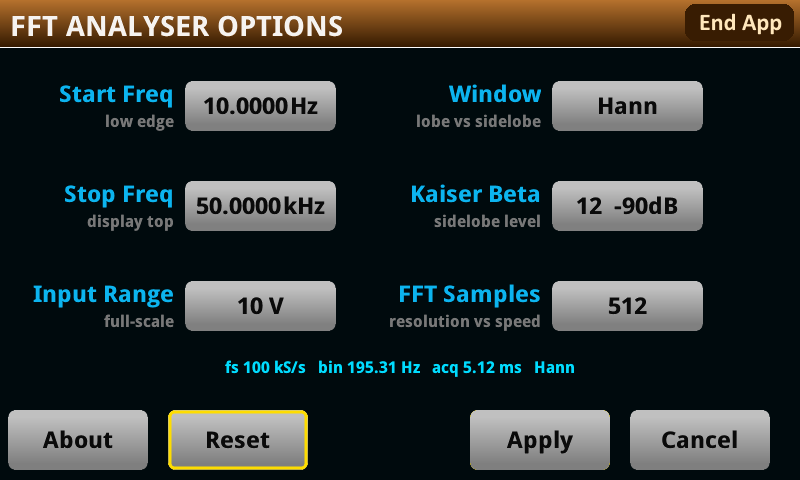
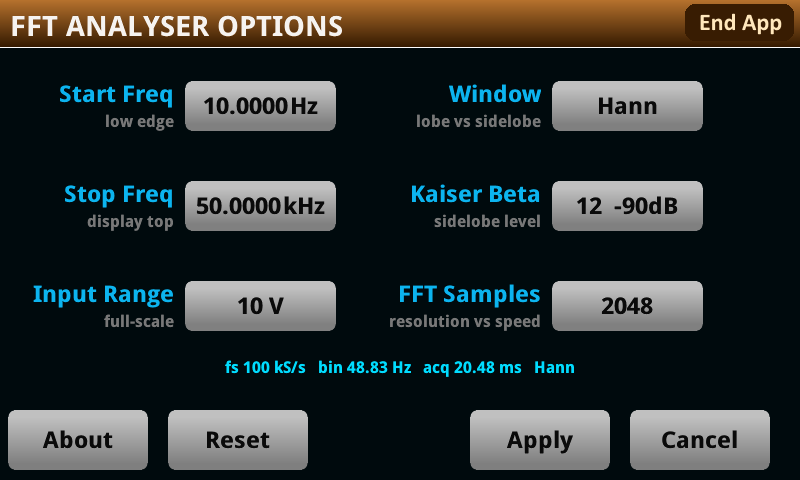
Refresh README and manual screenshots
Show the current spectrum and Options screens from the DMM6500.
Keep the earlier harmonic and resolution captures as benchmark examples.

diff --git a/docs/MANUAL.md b/docs/MANUAL.md
@@ -10,18 +10,19 @@ live spectrum, the physical **EXIT** key exits the analyser too.
 
 ## The spectrum screen
 
-![The spectrum screen: a 12.5 kHz 4.0020 V tone reading 12.0 dBV as a single 195 Hz-wide lump, over a 10 Hz to 50 kHz span at 512 samples with the Hann window. The vertical axis is labelled +020.0dB down to -120.0dB and the horizontal axis +00.00kHz to +40.00kHz, both by the firmware. The noise floor sits near -95 dB. Between the graph and the peak table a line reads THD 0.01%, S/N 78.4 dB and a noise floor of -89.7 dBV. A padlock button, closed, and a cog button sit to the right of the peak table](manual-spectrum.png)
+![DMM6500 spectrum screen showing a 6.000 kHz tone at 708.06 mVrms and 0.0 dBV. THD is 0.01%, S/N is 70.8 dB, and the noise floor is -100.4 dBV. The fast-path F indicator is on, and padlock and Options buttons sit to the right of the peak table.](manual-spectrum-current.png)
 
-+20 to −120 dBV against frequency, or to −140 on a DMM7510's 1 V and 0.1 V ranges. By default, 2048
-samples a frame, 256 bins, 10 frames a second. Options offers larger records for finer bin spacing,
-at a slower update rate.
++20 to −120 dBV against frequency, or to −140 on a DMM7510's 1 V and 0.1 V ranges. At the default
+2,048 samples and 100 kS/s, bins are 48.83 Hz wide. The screenshot shows the fast path at 20 fps.
+Options offers larger records for finer bin spacing at a slower update rate.
 
 ### The `F` at the start of the bottom line
 
 The bottom line reads `F  2048 pts  …` once the app is drawing by its **fast path**. Instead of
 appending 510 readings one at a time for the firmware's display task to copy, it writes the
 pixel records straight into the task's own ring in a single operation, and asks for one repaint.
-That is about twice the frame rate, and it is what the rate figures in *Limits* assume.
+That is about twice the frame rate of appending. The *Limits* section keeps an older frame-rate
+benchmark for comparison.
 
 It should appear **within about three seconds of launch**, and then stay. A number after it --
 `F2`, `F3` -- counts how many times the path has had to re-acquire since the line last changed.
@@ -63,13 +64,12 @@ Six peaks, strongest first, in two columns. The voltage is the RMS amplitude of 
 on the graph. Older screenshots show the previous peak-voltage readout.
 
 ```
-1  21.100 kHz   3.1906 Vrms   13.1 dBV
+1  6.000 kHz   708.06mVrms   0.0 dBV
 ```
 
-In the capture, peaks 2 and 3 are the tone's second and third harmonics, 81 and 82 dB down; peaks 4
-to 6 are noise, 84 dB down. At 195 Hz bins the harmonics sit close enough to the floor that their
-frequencies read tens of hertz out — 24.927 kHz for one that is really 25.000. The 16,384-sample
-capture further down resolves them exactly.
+The other rows show the next strongest peaks in the span. They can be harmonics or noise; rank
+does not identify them. The 16,384-sample comparison further down shows how finer bins can
+separate low-level harmonics from the noise floor.
 
 Two buttons sit to the right of the peak table: a **padlock**, which decides what a sideways drag
 means, and a **cog**, which opens Options.
@@ -124,7 +124,7 @@ beta 18. Kaiser beta 4 and 6 are the exceptions at 37 and 48 dB — their sidelo
 down and integrate across the whole band, which no skirt can exclude. A reading near the ceiling is
 telling you about the window rather than the instrument.
 
-![The same capture with Kaiser beta 18: the 12.5 kHz tone at 12.0 dBV with visibly narrower skirts than
+![An earlier 12.5 kHz capture with Kaiser beta 18: the tone is at 12.0 dBV with visibly narrower skirts than
 Hann, and a distortion line reading THD 0.01%, S/N 77.0 dB and a noise floor of -103.9 dBV -- within
 two decibels of what Hann reports, where before the leakage outliers were clipped the two windows
 disagreed by 23](manual-spectrum-kaiser18.png)
@@ -272,7 +272,7 @@ works either way.
 
 ## Options
 
-![The options form: Start Freq, Stop Freq and Input Range in the left column, Window, Kaiser Beta and FFT Samples in the right, with the preview line beneath and About, Reset, Apply and Cancel along the bottom. Start Freq reads 10.0000 Hz, Stop Freq 50.0000 kHz, Input Range 10 V, Window Hann, Kaiser Beta 12 -90dB and FFT Samples 512](manual-options.png)
+![The Options form shows a 10 Hz to 50 kHz span, 10 V input range, Hann window and 2,048 FFT samples. The preview shows 100 kS/s and 48.83 Hz bins. About, Reset, Apply and Cancel sit along the bottom.](manual-options.png)
 
 **If the Options key is slow to respond, something is talking to the instrument.** Front-panel
 keys are dispatched by the firmware's display task, and that dispatch stops while a LAN or USB
@@ -287,7 +287,7 @@ again. On its own the app stays responsive at every sample count.
 | Input Range | 0.1, 1 or 10 V full scale. |
 | Window | Hann, Blackman, Blk-Harris or Kaiser. |
 | Kaiser Beta | Sidelobe level, −30 to −139 dB. Inert for the other three windows. |
-| FFT Samples | 1024, 2048 (default), 4096, 8192, 16384 or 32768. More samples give finer bins. At the small counts the frame rate is set by per-frame overhead rather than by the count, so a step up costs less than doubling suggests; 1024 and 2048 are both measured at 10 frames a second. |
+| FFT Samples | 1024, 2048 (default), 4096, 8192, 16384 or 32768. More samples give finer bins. At small counts, per-frame overhead means doubling the sample count does not necessarily halve the frame rate. |
 
 Start Freq and Stop Freq are also written by a drag or a pinch on the trace while the padlock is
 open, so the form opens on whatever the last gesture asked for — see *Dragging and zooming the
@@ -549,7 +549,7 @@ distortion line reads THD 0.02%, S/N 78.9 dB and a noise floor of -105.8 dBV -- 
 512-sample figure, which is the 3 dB a doubling a per-bin level gives. The axes are the firmware's own, +020.0dB to -120.0dB and +00.00kHz to
 +40.00kHz](manual-spectrum-16384.png)
 
-Compare the 512-sample shot at the top of this manual, where the same tone is a single 195 Hz-wide
+Compare the [earlier 512-sample shot](manual-spectrum.png), where the same tone is a single 195 Hz-wide
 lump and the harmonics are down in the noise of the trace — the table still finds them, a few tens
 of hertz out.
 
@@ -645,7 +645,8 @@ reported a 100 Hz tone at 390.6 Hz and 16 dB low.
   frequency down with it; read *Aliasing* before trusting a peak at one of the slow rates.
 - **A span wider than 50 kHz raises the rate** and coarsens the bins with it. 500 kHz is the highest
   tone the instrument can show.
-- **10 frames a second at 1024 and 2048 samples, falling as the count rises.** The firmware's
+- **Earlier frame-rate benchmark.** The table below records a build that appended every point;
+  it does not show the current fast-path rates. In that benchmark the firmware's
   shortest timer period is 0.05 s and a tick arriving mid-frame is dropped. The period itself is
   **not restricted to multiples of 0.05**: asking for one off that grid posts event 1727 in the log
   and the period is honoured anyway. So the rate is `1 / period` on a 10 ms grid, with 0.05 s a hard
@@ -657,13 +658,12 @@ reported a 100 Hz tone at 390.6 Hz and 16 dB low.
   | displayed | **10 fps** | **10** | **8.2** | **6.0** | **3.6** | **1.9** |
   | period, derived | 0.10 s | 0.10 | 0.12 | 0.17 | 0.28 | 0.53 |
 
-  **The displayed row is measured, every count, on a DMM6500 1.7.17a.** The period row is `1 / rate`
+  The displayed row was measured at every count on a DMM6500 1.7.17a. The period row is `1 / rate`
   rounded to the 10 ms grid, which is derived and not read back -- the app chooses the period and
   the displayed rate is what comes of it.
 
-  An earlier build read 13 to 15 fps at 1024 and that figure is gone rather than kept: the trace is
-  now written as a folded pass, up the band and back down, which is twice the appends and is what
-  removes the dropout the earlier build had. Over 500 appends at about 76 us each is roughly 39 ms
+  The benchmark used a folded pass, up the band and back down, to remove the dropout of an earlier
+  build that read 13 to 15 fps at 1024. Over 500 appends at about 76 us each is roughly 39 ms
   of every frame. A single ascending lap costs half that and runs 17 fps at 1024, and it cannot be
   used -- it draws the spectrum twice on alternate frames.
 

diff --git a/README.md b/README.md
@@ -1,20 +1,15 @@
 # A spectrum analyser that runs on the Keithley DMM6500, DMM7510, and DAQ6510
 
 A real-time FFT spectrum analyser for the Keithley DMM6500, DAQ6510 and DMM7510, running **entirely
-on the instrument** as a TSP app. The digitizer captures, the instrument computes the transform in
-Lua, and the firmware's own graph object draws the trace. No host, no PC software.
+on the instrument** as a TSP app. The digitizer captures, the native FFT computes the transform,
+and the firmware's own graph object draws the trace. No host, no PC software.
 
-![The spectrum screen at 16,384 samples: a 10 kHz 5.0061 V tone reading 14.0 dBV as a narrow spike, with its 
-harmonics resolved as separate lines every 10 kHz out to 70 kHz -- the second at 20.000 kHz and 63.9 dB down, the 
-third at 30.000 kHz and 71.6 dB down -- all of them well clear of a -100 dB floor, at 200 kS/s with 12.21 Hz 
-bins. Between the graph and the peak table, THD 0.015%, S/N 81.8 dB and a noise floor of -105.4 dBV. The 
-firmware labels the axes itself, +020.0dB down to -120.0dB and +00.00kHz across to 
-+64.00kHz](docs/manual-spectrum-harmonics.png)
+![DMM6500 spectrum screen showing a 6.000 kHz tone at 708.06 mVrms and 0.0 dBV. The fast-path F indicator is on at 2,048 samples, 100 kS/s and 20 fps.](docs/manual-spectrum-current.png)
 
 A bench multimeter is not a spectrum analyser. This one has a 1 MS/s digitizer, a 400 MHz processor
-and a touchscreen, which is enough to resolve six harmonics of a 10 kHz tone as separate lines — the
-second and third at −63.9 and −71.6 dBV — in 12.2 Hz bins at 16,384 samples, or 195 Hz bins at 10
-frames a second.
+and a touchscreen. At 2,048 samples and 100 kS/s, the capture above shows 48.83 Hz bins and 20
+frames per second. An [earlier 10 kHz harmonic benchmark](docs/manual-spectrum-harmonics.png) shows
+six harmonics resolved at 16,384 samples, with 12.2 Hz bins.
 
 `docs/MANUAL.md` is the user manual. Start there to operate it; read on for how it works.
 
@@ -43,9 +38,9 @@ responsive at every sample count.
 
 ## What it does
 
-- **Digitizes** up to 1 MS/s, with selectable 512 to 16,384 samples per frame (default 512).
-- **Transforms** with a real-input radix-2 FFT in Lua 5.0.2. The window, the bit-reversal permutation
-  and every twiddle factor are precomputed when settings are applied. 256 to 8,192 bins.
+- **Digitizes** up to 1 MS/s, with selectable 1,024 to 32,768 samples per frame (default 2,048).
+- **Transforms** with a real-input radix-2 FFT. The window, the bit-reversal permutation and every
+  twiddle factor are precomputed when settings are applied.
 - **Plots** through `display.OBJ_GRAPH`, one buffer refill a frame and no graph call in a frame
   nobody has touched, which brings axes, grid, labels and auto-scaling with it. The firmware labels both axes in real units --
   kHz across, from binding X to the reading's extra field rather than its timestamp, and dB down,
@@ -65,7 +60,7 @@ responsive at every sample count.
 More samples give finer bins without reducing bandwidth: 16,384 samples at 100 kS/s give
 6.10 Hz spacing. Larger sizes cost update rate. `docs/PERFORMANCE.md` has every size measured.
 
-One signal at both ends of that trade, a 12.5 kHz 4.0 V tone over the same 10 Hz to 50 kHz span.
+This earlier comparison uses a 12.5 kHz 4.0 V tone over the same 10 Hz to 50 kHz span.
 At 16,384 samples the second and third harmonics stand as separate lines:
 
 ![The spectrum screen at 16,384 samples: a 12.5 kHz 4.0024 V tone reading 12.0 dBV as a narrow spike, its 
@@ -74,9 +69,9 @@ to 50 kHz span with 6.1 Hz bins. Between the graph and the peak table, THD 0.02%
 of -105.8 dBV. The firmware labels the axes itself, +020.0dB down to -120.0dB and 
 +00.00kHz across to +40.00kHz](docs/manual-spectrum-16384.png)
 
-At the default 512 they are in the floor, for 195 Hz bins at 10 frames a second:
+In the older 512-sample capture they are in the floor, with 195 Hz bins at 10 frames a second:
 
-![The same tone at the default 512 samples: one 195 Hz-wide lump and the harmonics barely clear of the 
+![The same tone at 512 samples: one 195 Hz-wide lump and the harmonics barely clear of the
 noise floor, at 10 frames a second. S/N reads 78.4 dB, within a decibel of the 16,384-sample figure, while the 
 noise floor reads -89.7 dBV against -105.8: the floor is a per-bin level and narrows with the bins, where S/N is 
 against the integrated noise and does not move](docs/manual-spectrum.png)
